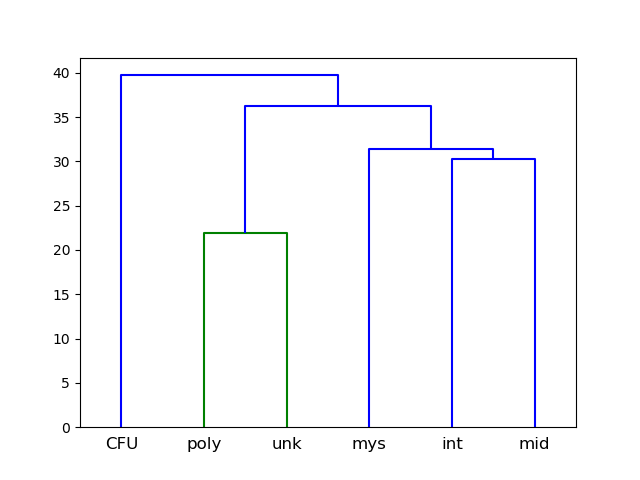
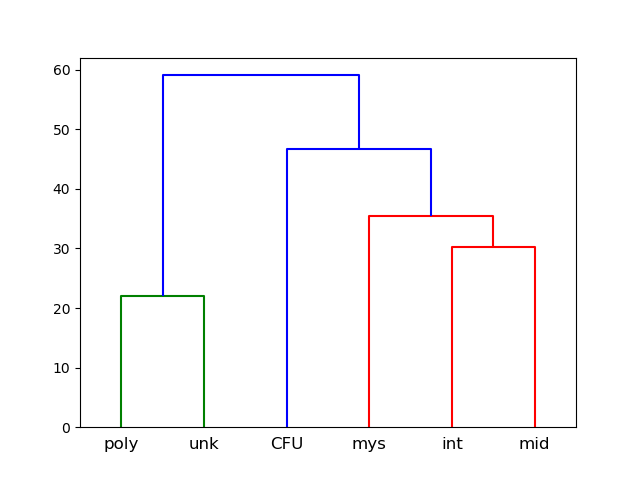
Add list of differentially expressed genes

diff --git a/week10_lab/diff_exp.py b/week10_lab/diff_exp.py
@@ -8,6 +8,7 @@ Usage:
 import sys
 import pandas as pd
 from scipy.stats import ttest_ind, ttest_rel
+from sklearn.cluster import KMeans
 
 def average_early_late( early, late ):
     data_df = pd.read_csv( sys.argv[1], sep='\t' ).dropna(how='any')
@@ -25,12 +26,31 @@ def get_diff_stats( average_df, early, late ):
     up_df = average_df.mask( average_df['ratio'] < 2.0 ).dropna()
     return pd.concat( [ down_df, up_df ] )[['gene','ratio','p-value']].sort_values('p-value')
     
+def k_means_clustering( X ):
+    ## making way more clusters here than before to limit the number of genes in the panther output
+    kmeans = KMeans( n_clusters=7, random_state=0 )
+    kmeans.fit( X[['CFU','poly', 'unk', 'int', 'mys', 'mid']] )
+    labels = kmeans.predict( X[['CFU','poly', 'unk', 'int', 'mys', 'mid']] )
+    X = pd.merge( pd.DataFrame(X), pd.DataFrame( labels, columns=['cluster'] ), left_index=True, right_index=True )
+    return X.sort_values('cluster')[[ 'CFU', 'poly', 'unk', 'int', 'mys', 'mid', 'cluster', 'gene' ]]
+    
 def main():
-    ## I have no idea if these are actually the early and late cell types...
-    early = [ 'CFU', 'mys', 'mid' ]
-    late = [ 'poly', 'unk', 'int' ]
+    ## I have no idea if these are actually the early and late cell types... just my best guess
+    ## based on the dendrogram
+    # early = [ 'CFU', 'mid', 'int' ]
+    # late = [ 'poly', 'unk', 'mys' ]
+    # early = [ 'CFU', 'int', 'mys' ]
+    # late = [ 'poly', 'unk', 'mid' ]
+    early = [ 'CFU', 'mys' ]
+    late = [ 'poly', 'unk' ]
     averaged = average_early_late( early, late )
     avg_and_stats = get_diff_stats( averaged, early, late )
+    print 'differentially regulated genes\n(p-value < 0.05, ratio > 2 or < 0.5)\n'
     print avg_and_stats.to_csv( index=False, sep='\t' )
+    clustered = k_means_clustering( averaged )
+    cluster_oi = int( clustered[clustered.gene=='Lgals9'].cluster.to_string( index=False ) )
+    clustered_genes = clustered.mask( clustered['cluster'] != cluster_oi )
+    print '\ngenes clustered with Map3k6 (k=30)\n'
+    print ', '.join( clustered_genes.dropna()['gene'].values )
 
 main()

diff --git a/week10_lab/clustering.py b/week10_lab/clustering.py
@@ -16,7 +16,7 @@ from sklearn.cluster import KMeans
 
 def hierch_clustering( data_df_oi, labels ):
     flipped = np.transpose( data_df_oi.values )
-    linkx, linky = linkage( data_df_oi.values ), linkage( flipped )
+    linkx, linky = linkage( data_df_oi.values, method='average' ), linkage( flipped, method='average' )
     leavesx, leavesy = leaves_list( linkx ), leaves_list( linky )
     transformed = data_df_oi.values[ leavesx,: ][ :,leavesy]
     labels_tr = np.array( labels )[leavesy]
@@ -52,7 +52,7 @@ def main():
     data_df_oi = data_df[ labels ]
     h_transformed, labels_tr, linky, leavesy = hierch_clustering( data_df_oi, labels )
     plot_heatmap( 'hierarchical clustered gene expression', labels_tr, h_transformed, 'hierch_clustered_heatmap.png' )
-    plot_dendrogram( linky, labels_tr, 'dendrogram.png' )
+    plot_dendrogram( linky, labels, 'dendrogram.png' )
     k_transformed, k_labels = k_means_clustering( data_df_oi )
     k_transformed = k_transformed[ :,leavesy ]
     plot_heatmap( 'k-means clustered gene expression, k=5', labels_tr, k_transformed, 'k_means_clustered_heatmap.png')
